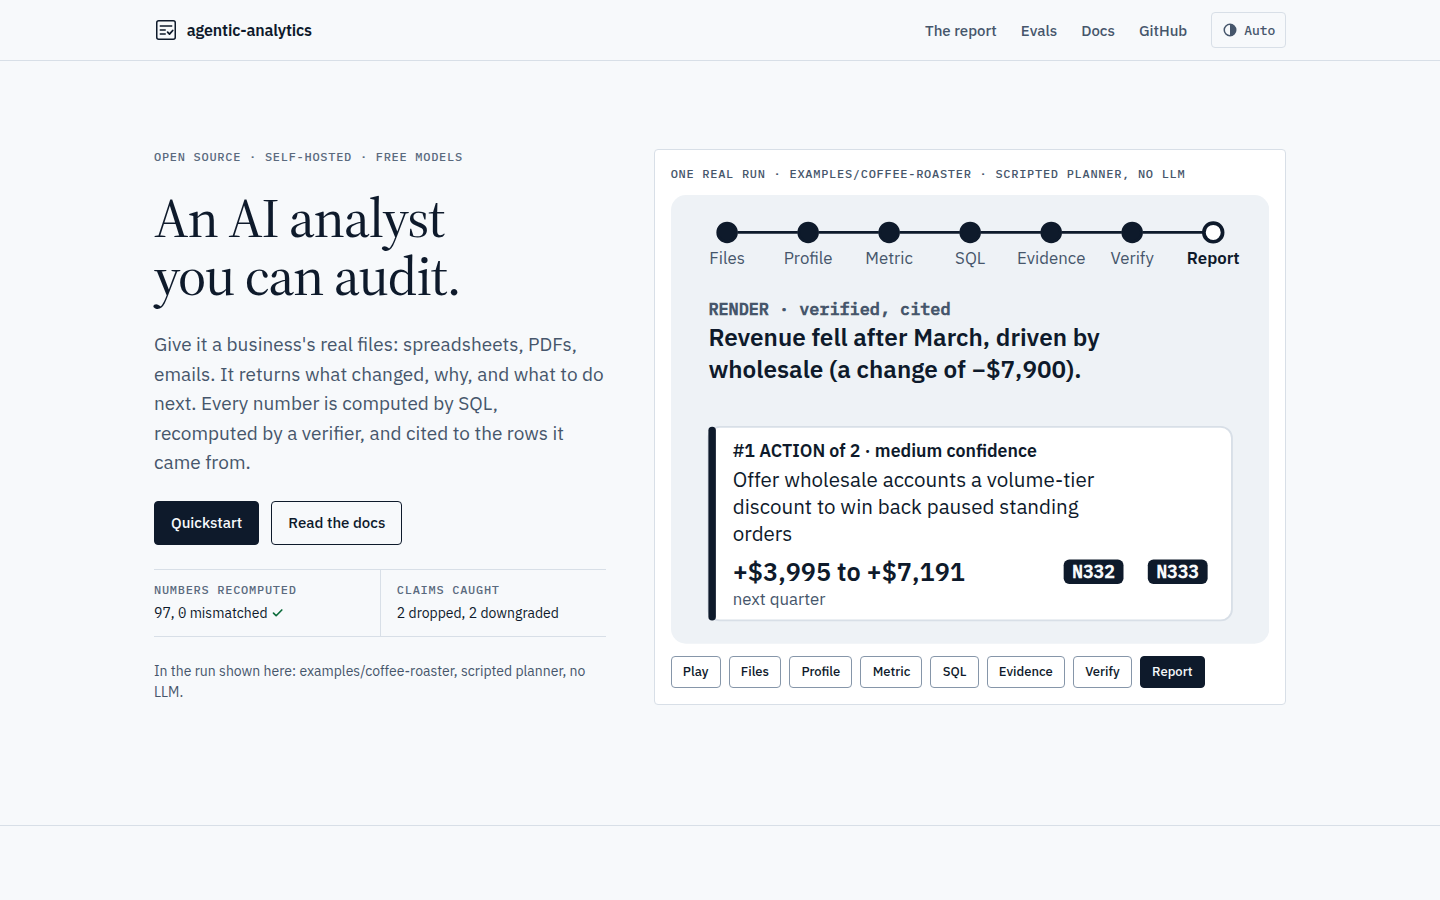
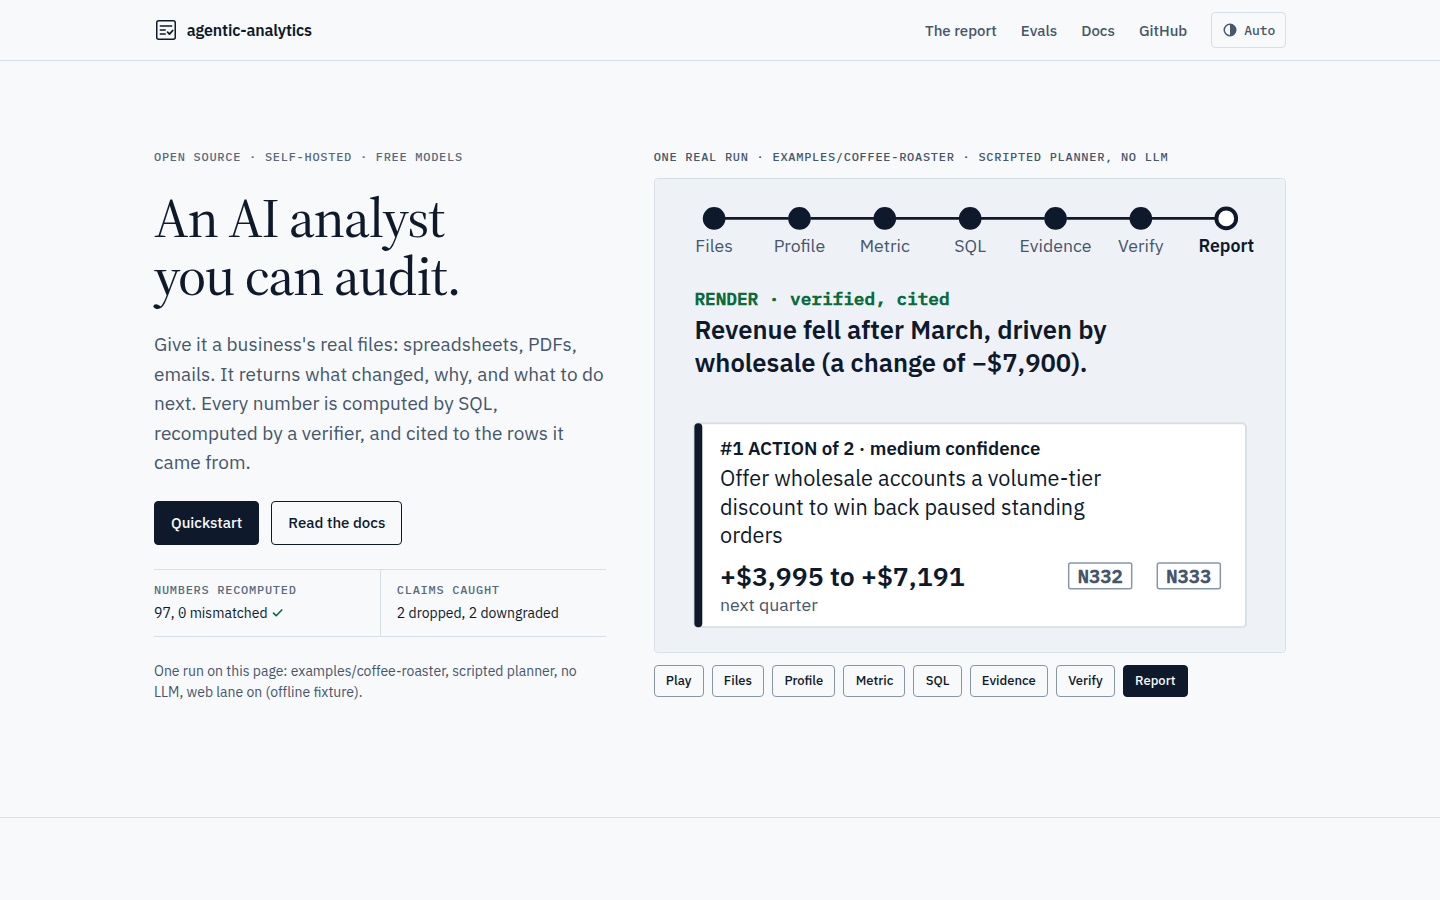
docs(site): D17 for fonts and axe, Reference intro, STATE decisions, refreshed screenshots

diff --git a/docs/progress/STATE.md b/docs/progress/STATE.md
@@ -260,12 +260,17 @@ These are checks that need something this machine doesn't have yet, such as a re
 - [M12] The docs workflow builds the site on every PR and push but skips the Pages upload and deploy while `github.event.repository.private` (Pages is unavailable on the Free plan for a private repo); a skipped `deploy` job is not "Pages done" — rerun the workflow on main after going public (docs/LAUNCH.md step 2) — maintainer instruction 2026-10-17
 - [M13a] Merging main (M13e) showed the M13a representative rule (≥ 50% of the group's best score) let a trend.v1 with no measured change (score 0) lose to new_lost, so Online Retail II's Nov peak dropped out of the report (C6 failed). A template with no measured change now keeps its priority; the 30-dataset baseline is identical per dataset, and the real-data tier passes 12/12 — analysis-library §6
 - [M13f] The docs stay on Starlight (local Pagefind search, content collections), fully themed through `--sl-*` → token mapping and four component overrides (Header, Footer, ThemeSelect, PageTitle); the landing page and 404 are custom Astro pages on the same tokens. A custom DocsLayout was rejected: it would re-implement search, sidebar state and the mobile menu — apps/docs/DESIGN.md §5
-- [M13f] The pipeline scene keeps its warm README colours (the GIFs are hash-checked against `pipeline-scene.ts`); the site re-themes it through its own `--pp-*` custom properties with higher specificity, so neither the scene nor the GIFs change — DOCS-SITE §2
+- [M13f] The pipeline scene keeps its README colours. The site re-themes it through the scene's `--pp-*` custom properties plus three unstyled class hooks added to `pipeline-scene.ts` (`fact-chip`/`fact-id` for hairline fact chips, `verified` for the V1–V8 pass marks and the "verified, cited" stamp in the site's green), and draws its corners at 4px. The GIFs were re-recorded (`bun run readme:pipeline`) and are byte-identical; only the input hash in `pipeline-gif.json` changed. Spec review asked that chips and verified marks follow DESIGN §2.3/§6 — DESIGN.md §6 "Diagrams"
 - [M13f] "Running free" (the only page of the Models section) is listed under Start as "Running on free models"; Use it gains an intro page ("One engine, four doors"); no URL changed. The later Learn section goes between How it works and Use it — DOCS-SITE §1
 - [M13f] Landing eval numbers are computed at build time by the eval runner's own `summarize()` from the latest `evals/results/*-baseline-full.json`, `*-configured-small-smoke.json`, `*-configured-small-full.json` and `*-baseline-real.json`, so they change with the results files, never by hand — DOCS-SITE §4
 - [M13f] Binaries: the landing page links the Releases page and says binaries "are attached to each tagged release, from v0.1.0 on" (no release exists while the repo is private) — maintainer instruction
 - [M13f] Starlight's search button hides its "Ctrl K" hint: the visible text wasn't part of the button's accessible name (axe label-content-name-mismatch, WCAG 2.5.3); the shortcut still works — DESIGN.md §8
 - [M13f] The browser job runs axe and the 360 px overflow check on every page in the sitemap (not just the three required pages), in light and dark — DESIGN.md §10
+- [M13f] Section intros: Use it and Reference open with short overview pages (`use-it/overview`, `reference/overview`). How it works opens with "Pipeline overview" (the stages, the state machine and the stage table) and Quality with "How quality is measured", which already serve as their intros, so no extra pages were added there — DOCS-SITE §1
+- [M13f] The favicon and the header mark draw the check in ink/currentColor: they are the brand, not a verified state, so the green stays reserved for "verified"; Starlight's green (tips, success badges) is mapped to slate too — DESIGN.md §2.3, §6
+- [M13f] Under 30rem the pipeline scene's type is too small (about 9 px), so the island adds a ruled step-by-step list of the same run (same data) below it; the SVG stays as the visual — DESIGN.md §6
+- [M13f] og.png and favicon.ico drift check: `apps/docs/scripts/site-assets.ts` records the hash of its inputs (pipeline.json, favicon.svg, the renderer, the docs package.json) in `apps/docs/scripts/site-assets.json`, and `scripts/test/site-assets.test.ts` (in `bun run check`) fails when they changed without re-rendering — DOCS-SITE §4
+- [M13f] The landing page shows one run: the report card, its fact ledger and its counts come from the same web-enabled run as the hero animation (`recordRun()` in pipeline-data.ts, through `scripts/landing-data.ts`), not from the docs' web-off run. Before this the hero said 97 numbers with N332/N333 and the card said 94 with N329/N330. `generate.ts` fails the build and `scripts/test/landing-run.test.ts` fails if they disagree with pipeline.json — coordinator review
 <!-- Format: - [M<N>] <decision> — <why> — <spec reference> -->
 
 ## Known gaps carried forward

diff --git a/docs/DECISIONS.md b/docs/DECISIONS.md
@@ -100,3 +100,14 @@ Release tags also attach `aa` binaries built with `bun build --compile` (Linux x
 - Prompts are inlined into `packages/agent/src/prompts.gen.ts` (checked by `bun run prompts:check`) instead of read from disk next to the source.
 
 Each target is built and smoke tested (doctor + a full offline eval) on its own native runner (`.github/workflows/binaries.yml`), on pull requests that touch the build and on every tag.
+
+## D17. Self-hosted site fonts and axe for the site's accessibility checks (2026-10-17)
+
+The product site (apps/docs/DESIGN.md) adds three font packages and one test tool. All are free, run locally, and none touches the engine:
+
+- **Fonts:** `@fontsource-variable/source-serif-4`, `@fontsource/ibm-plex-sans` and `@fontsource/ibm-plex-mono`, all under the SIL Open Font License 1.1.
+  - Vite bundles the WOFF2 files into the site, so it makes no request to a font CDN (no third-party requests at runtime).
+  - The pairing deliberately differs from the sibling pas-agent site (Instrument Sans + JetBrains Mono).
+- **`@axe-core/playwright`** (MPL-2.0; axe-core is MPL-2.0 too) is a root dev dependency. The `site-browser` CI job uses it to check WCAG 2 A/AA, light and dark, on every page of the built site.
+
+Both reuse Playwright (D15). No paid service is involved.

diff --git a/apps/docs/src/content/docs/reference/overview.md b/apps/docs/src/content/docs/reference/overview.md
@@ -1,0 +1,17 @@
+---
+title: Reference
+description: The exact formats and settings, for when you need the precise field name or the method id.
+sidebar:
+  order: 0
+---
+
+These pages are the precise lookups. For *why* things work the way they do, see [How it works](../../how-it-works/pipeline/).
+
+| Page | What it covers | Generated from |
+|---|---|---|
+| [Config](../config/) | Environment variables and `agentic-analytics.config.yaml`: models per role, free providers, the web lane, timeouts, where jobs live | — |
+| [Metric YAML](../metric-yaml/) | The metric definition format you confirm before anything is measured (`aa metrics --save`) | — |
+| [Report schema](../report-schema/) | Every field of `report.json` v1: facts with their computations, claims with citations and grades | the JSON Schema the engine validates against |
+| [Insight templates and decomposers](../templates/) | The detection and decomposition methods by id (`trend.v1`, `contribution.v1`, `pvm.v1`, …) | — |
+
+The HTTP API reference lives with the other doors: [HTTP API](../../use-it/http-api/), generated from the server's own OpenAPI spec.

diff --git a/apps/docs/README.md b/apps/docs/README.md
@@ -18,7 +18,7 @@ The product site: a custom landing page and the Astro Starlight docs, deployed t
 - It copies the eval results, decisions, roadmap and changelog.
 
 - It writes the landing page's data:
-  - `landing.json`: finding F1 of that run, with every fact behind it;
+  - `landing.json`: finding F1 of the hero's web-enabled run (the same run as `pipeline.json`, checked), with every fact behind it;
   - `evals.json`: the eval runner's own `summarize()` over the latest `evals/results/*.json`, plus the real-data checks.
 
 Everything it writes is gitignored. The `Pipeline` island's data is the exception: it is the README GIF's data, so it is checked in at `docs/assets/readme/pipeline.json`. `scripts/pipeline-data.ts --write` regenerates it from one web-enabled run (scripted planner, offline web fixture) — the event log's stage order, the verified report's facts and citations, the verifier's check table — and a test (`scripts/test/pipeline.test.ts`) reruns the engine and fails if the file drifts.

diff --git a/docs/DOCS-SITE.md b/docs/DOCS-SITE.md
@@ -84,7 +84,7 @@ The README is the first thing people see on GitHub. It carries five visuals, and
 
 - **Numbers.**
   - Every number on the landing page comes from generated data, written by `scripts/generate.ts` on each build (gitignored).
-  - `landing.json` comes from the real coffee-roaster run.
+  - `landing.json` comes from the same web-enabled run as the hero animation (`pipeline-data.ts` `recordRun()`, via `scripts/landing-data.ts`). The build fails, and `scripts/test/landing-run.test.ts` fails, if its counts or recommendation fact ids disagree with `pipeline.json`, so the page shows one run throughout.
   - `evals.json` holds the suite metrics, computed by the eval runner's own `summarize()` from the latest `evals/results/*.json`, and the real-data checks.
   - The pipeline numbers come from the committed `docs/assets/readme/pipeline.json`.
 - **Site files.**

diff --git a/docs/plans/m13f.md b/docs/plans/m13f.md
@@ -40,7 +40,7 @@ Acceptance:
 5. **Landing page** (`src/pages/index.astro`) with a `LedgerReport` island. Fact chips are anchors into a static fact ledger, so the page works without JS.
 6. **Site files:**
    - `public/favicon.svg` and `favicon.ico`;
-   - `public/og.png`, rendered by `scripts/site/og.ts` (Playwright) from an on-system HTML card;
+   - `public/og.png`, rendered by `apps/docs/scripts/site-assets.ts` (Playwright) from an on-system HTML card;
    - `sitemap.xml` (an index that points at Starlight's sitemap);
    - a custom 404 (`disable404Route`).
 7. **Docs navigation.**
